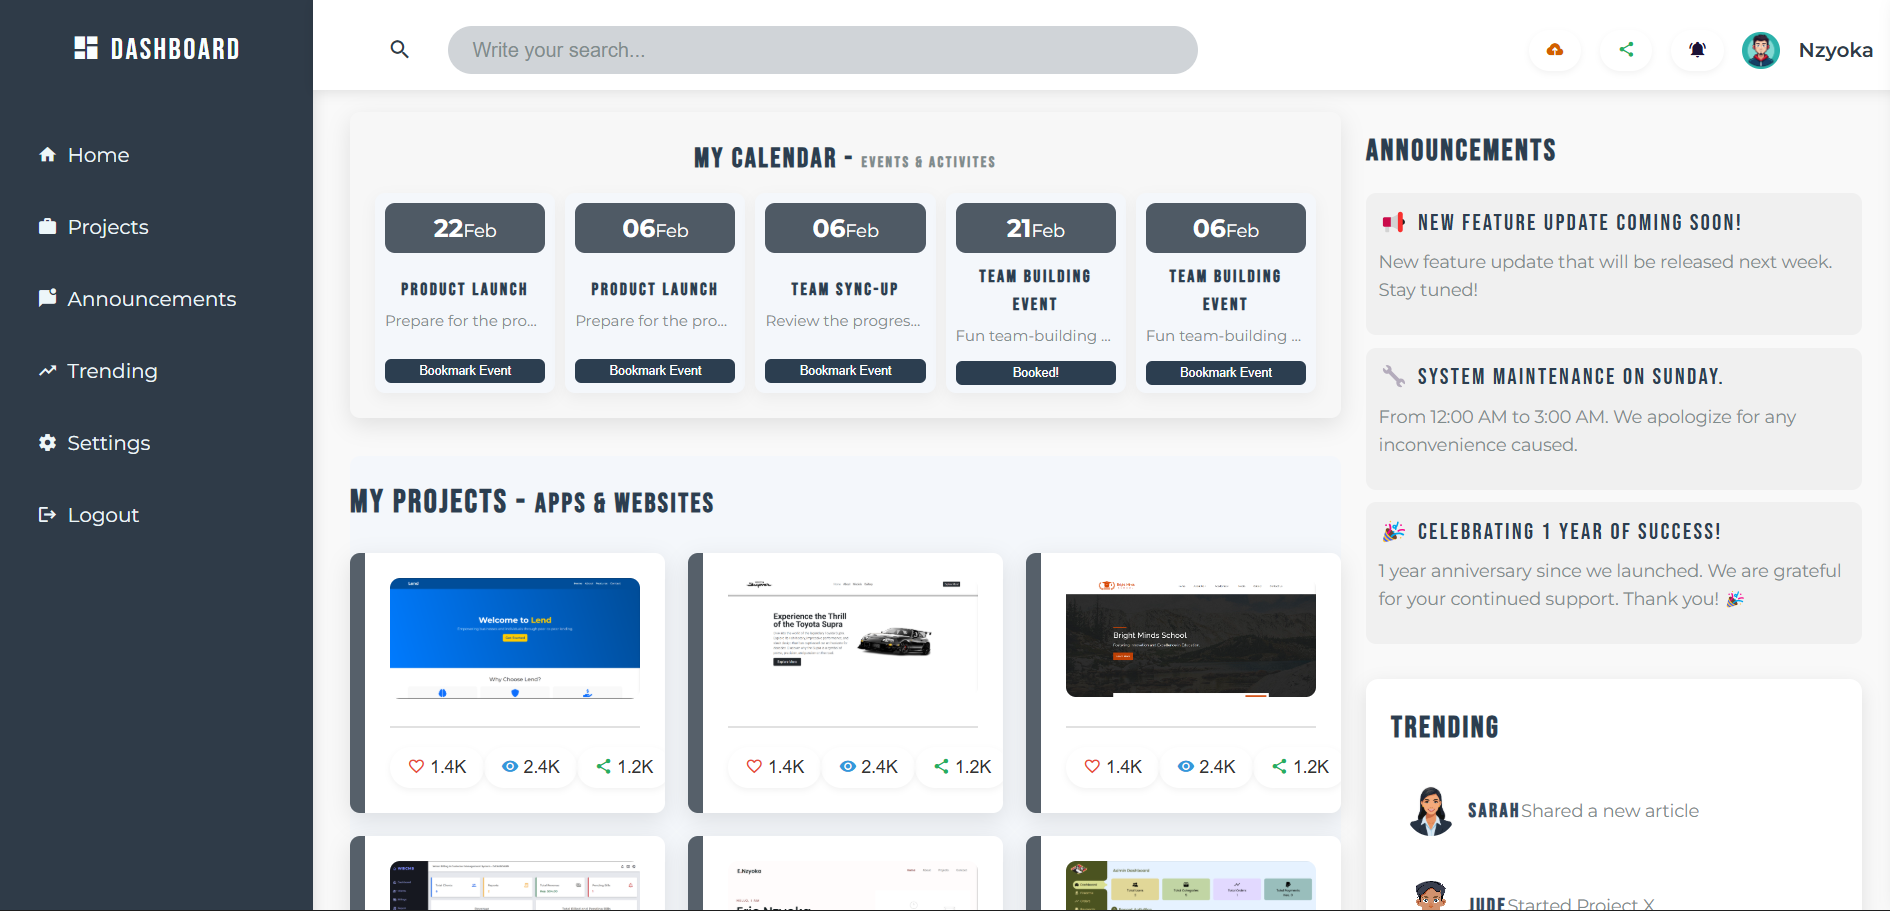
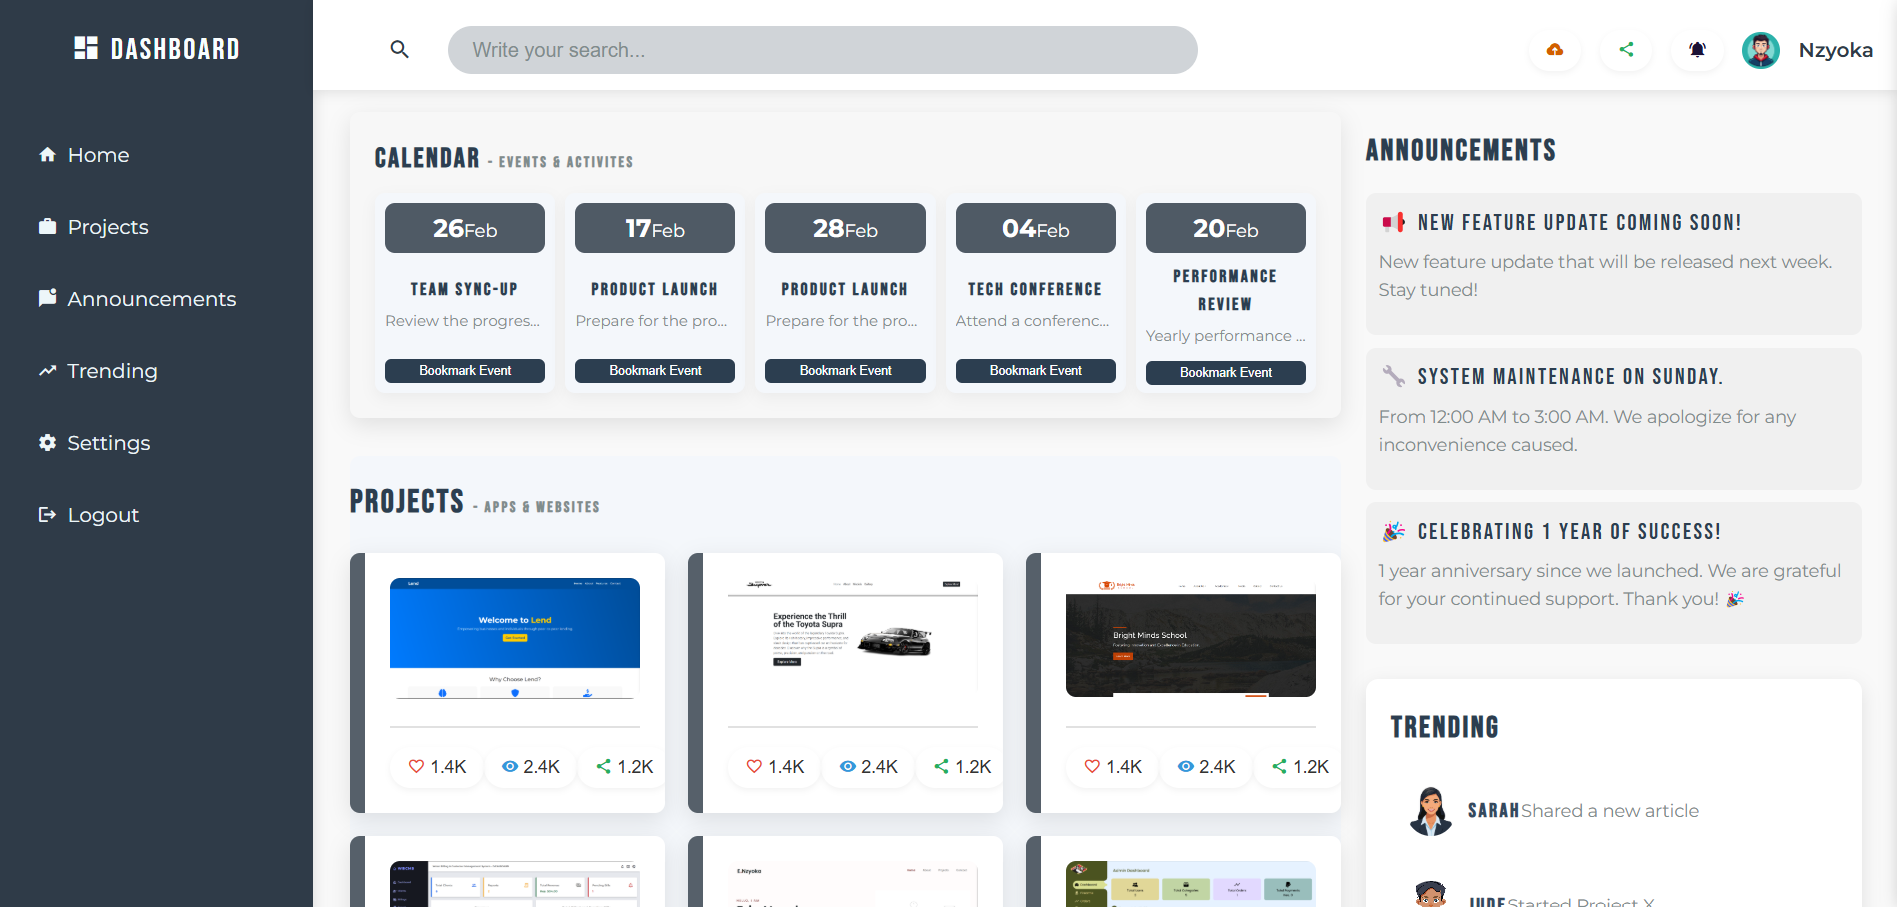
update: Project screen preview

diff --git a/index.html b/index.html
@@ -69,7 +69,7 @@
 
             <!-- Calender Section -->
             <section class="calender">
-                <h3>My Calendar - <small>Events & Activites</small></h3>
+                <h3>Calendar <small>- Events & Activites</small></h3>
                 <div class="calender-grid" id="calender-grid">
                     <!-- Calendar Cards will be injected here -->
                 </div>
@@ -78,7 +78,7 @@
             
             <!-- Projects Section -->
             <section class="projects">
-                <h3>My Projects - <small>Apps & Websites</small></h3>
+                <h3>Projects <small>- Apps & Websites</small></h3>
                 <div class="project-grid" id="projects-grid">
                 <!-- Project Cards will be injected here via JavaScript -->
                 </div>

diff --git a/css/styles.css b/css/styles.css
@@ -224,7 +224,7 @@ h1, h2, h3, h4, h5, h6 {
     color: #2c3e50;
     margin-bottom: 10px;
     font-weight: 600;
-    text-align: center;
+    /* text-align: center; */
 }
 
 .calender h3 small {
@@ -350,6 +350,11 @@ h1, h2, h3, h4, h5, h6 {
     border-left: 12px solid #2f3b48cf; /* Stylish Left Border */
     position: relative;
     overflow: hidden;
+}
+
+.projects h3 small {
+    font-size: 12px;  /* Reduced small text font size */
+    color: #7f8c8d;
 }
 
 /* Project Card Hover Effects */
